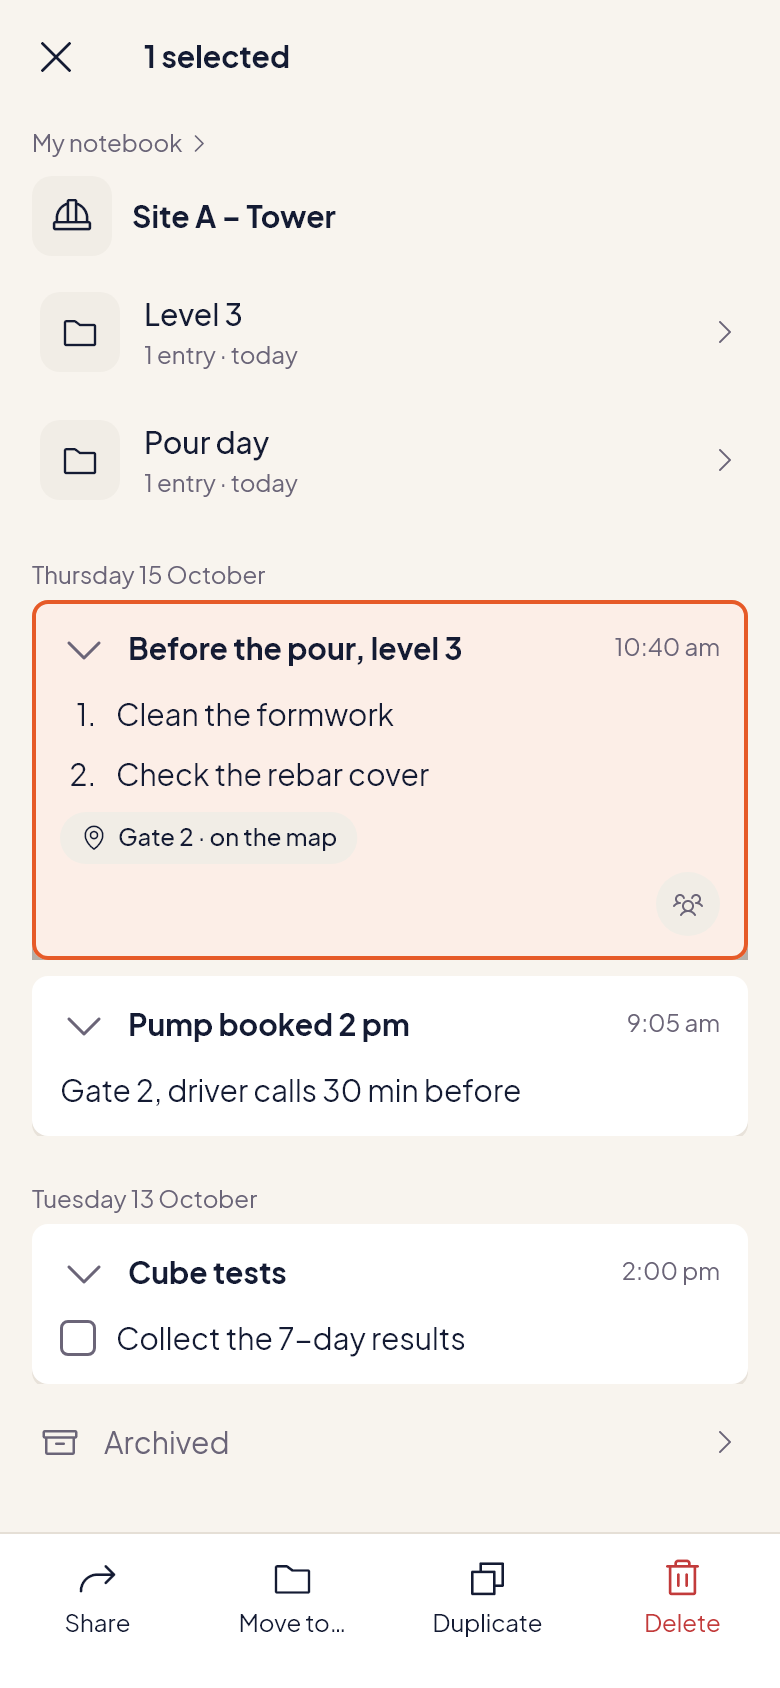
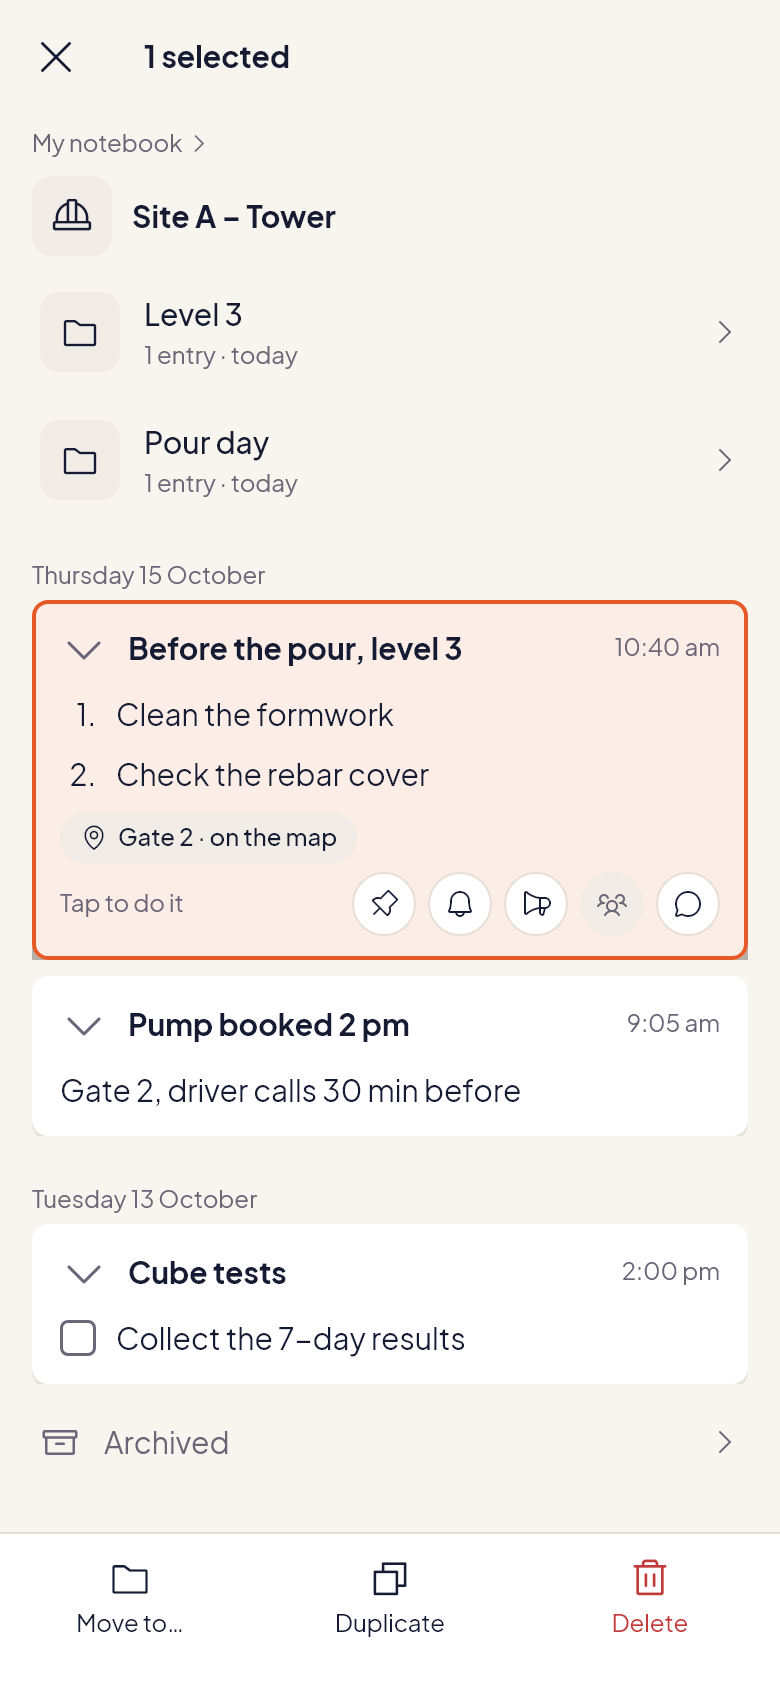
Review 106b: the accepted shots updated (BH2, BH4, BH5, NB-put-in-space, NS1; EN, AR), NS6 new (an older Space share); shots-106b removed

diff --git a/test_screens/r106_test.dart b/test_screens/r106_test.dart
@@ -3,7 +3,10 @@
 // Space icon's card open with its two Spaces. NS2: a page's entries in
 // full, one folded ("1 line hidden" with its status icons). NS3: My
 // notebook's card in Filter mode, To-dos open and Shared to a Space on.
-// NS4: the card in Sort mode inside a page. Run:
+// NS4: the card in Sort mode inside a page. NS6 (review 106 T5): the
+// entry changed after one of its Space shares, so the Space icon has its
+// dot, and its card says "Older version · changed at …", then Share
+// again. Run:
 //   flutter test test_screens/r106_test.dart --update-goldens
 import 'package:buildvibes/data/models/note.dart';
 import 'package:buildvibes/features/notebook/note_filter.dart'
@@ -49,22 +52,33 @@ void main() {
 
     /// Site A, its first entry pinned, with a reminder, shared to the feed
     /// and to two Spaces; its second pinned and shared to the feed.
-    FakeNotebookRepository repo({bool fold = false}) {
+    /// With [changed], the entry changed at 09:20 (its content key k2), after
+    /// its 08:45 Space share (k1): that share is older (NS6).
+    FakeNotebookRepository repo({bool fold = false, bool changed = false}) {
       final r = s.repository();
+      String? kept(String key) => changed ? key : null;
       r.kept['entry-pour'] = r.kept['entry-pour']!.copyWith(
         pinned: true,
         remindAt: () => day.add(const Duration(hours: 6)),
+        contentKey: () => kept('k2'),
+        contentChangedAt: () => changed ? at(9, 20) : null,
         shares: [
-          NoteShare(target: NoteShareTarget.feed, at: at(8, 30)),
+          NoteShare(
+            target: NoteShareTarget.feed,
+            at: at(8, 30),
+            contentKey: kept('k2'),
+          ),
           NoteShare(
             target: NoteShareTarget.space,
             at: at(8, 45),
             name: s.t('Kuwait City Tower', 'برج مدينة الكويت'),
+            contentKey: kept('k1'),
           ),
           NoteShare(
             target: NoteShareTarget.space,
             at: at(9, 2),
             name: s.t('NBKCH Site team', 'فريق موقع NBKCH'),
+            contentKey: kept('k1'),
           ),
         ],
       );
@@ -99,6 +113,14 @@ void main() {
       await open(tester, repo());
       await _tap(tester, 'note-status-entry-pour-space');
       await _snap(tester, 'NS1-status-card', lang);
+    });
+
+    testWidgets('NS6 an older Space share: the dot, its card [$lang]', (
+      tester,
+    ) async {
+      await open(tester, repo(changed: true));
+      await _tap(tester, 'note-status-entry-pour-space');
+      await _snap(tester, 'NS6-older-share', lang);
     });
 
     testWidgets('NS2 a page in full, one entry folded [$lang]', (tester) async {
